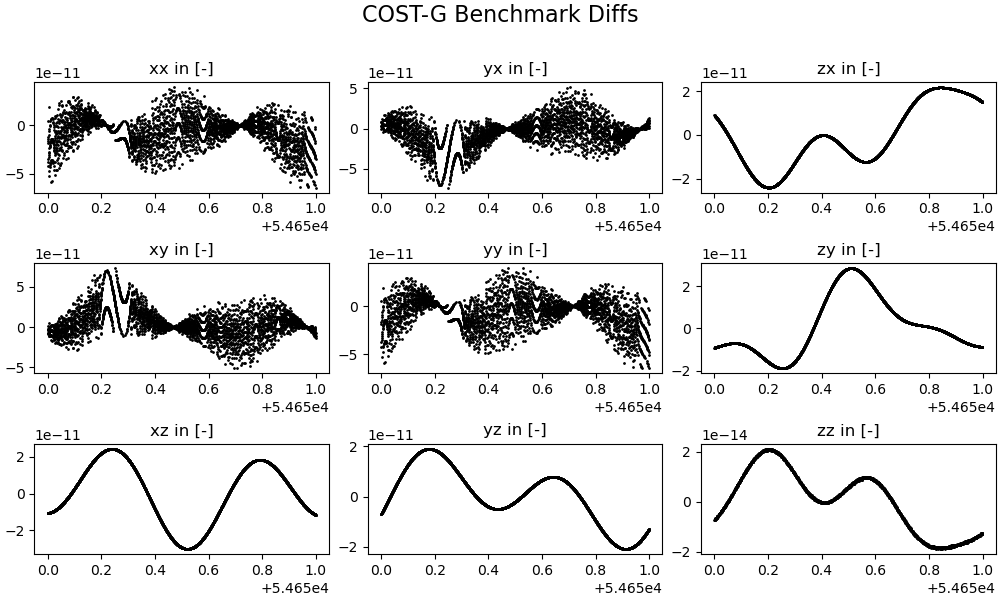
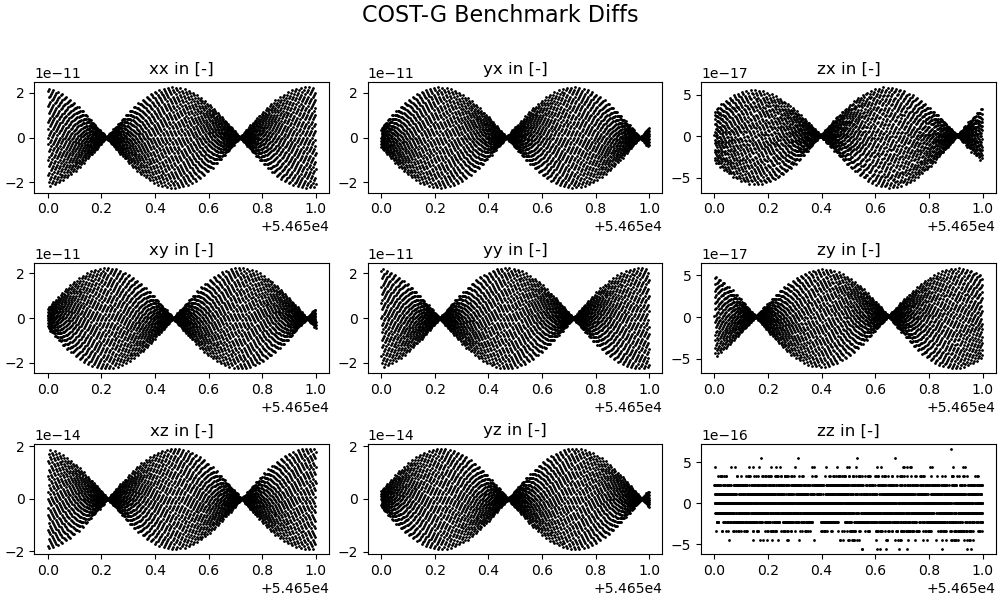
more eop

diff --git a/costg/check_itrf2icrf.cpp b/costg/check_itrf2icrf.cpp
@@ -2,14 +2,14 @@
 #include "geodesy/units.hpp"
 #include "orbit_integration.hpp"
 #include <charconv>
+#include <chrono>
 #include <cmath>
 #include <cstdio>
 #include <datetime/dtfund.hpp>
 #include <fstream>
 #include <vector>
-#include <chrono>
 #ifdef USE_SOFA
-#  include "sofa.h"
+#include "sofa.h"
 #endif
 
 using namespace std::chrono;
@@ -47,12 +47,12 @@ int main(int argc, char *argv[]) {
   }
 
   // parse position data
-  std::vector<Pos> icrfPos, itrfPos;
+  std::vector<Pos> itrfPos, icrfPos;
   if (map_position(argv[2], itrfPos))
     return 1;
   if (map_position(argv[3], icrfPos))
     return 1;
-  
+
   // fist date in file as datetime instance
   dso::datetime<dso::nanoseconds> d1(
       dso::modified_julian_day(static_cast<int>(itrfPos[0].mjd._big)),
@@ -63,7 +63,6 @@ int main(int argc, char *argv[]) {
   const int ref_mjd = d1.as_mjd();
   const int start = ref_mjd - 5;
   const int end = ref_mjd + 6;
-  // parse C04 EOPs and convert time-stamps to TT (not UTC)
   if (parse_iers_C04(argv[1], start, end, eop_lut)) {
     fprintf(stderr, "ERROR. Failed collecting EOP data\n");
     return 1;
@@ -71,7 +70,7 @@ int main(int argc, char *argv[]) {
 
   Eigen::Matrix<double, 3, 3> rc2i, rpom;
   double era, xlod;
-  
+
   std::vector<Pos>::const_iterator it = icrfPos.cbegin();
   // for every sattellite position ...
   auto clock_start = high_resolution_clock::now();
@@ -81,14 +80,15 @@ int main(int argc, char *argv[]) {
     assert(!dso::gcrs2itrs(gps2tai(tpos.mjd), eop_lut, rc2i, era, rpom, xlod));
 
     // transform itrf-to-icrf
-    [[maybe_unused]]const Eigen::Matrix<double, 3, 1> cpos =
+    [[maybe_unused]] const Eigen::Matrix<double, 3, 1> cpos =
         dso::rter2cel(tpos.xyz, rc2i, era, rpom);
 
 #ifdef USE_SOFA
     const dso::TwoPartDate ttjd = gps2tt(tpos.mjd).normalized();
     int iy, im, id;
     double fd, dat;
-    assert(!iauJd2cal(ttjd._big + dso::mjd0_jd, ttjd._small, &iy, &im, &id, &fd));
+    assert(
+        !iauJd2cal(ttjd._big + dso::mjd0_jd, ttjd._small, &iy, &im, &id, &fd));
     assert(!iauDat(iy, im, id, fd, &dat));
     dso::EopRecord myeop;
     if (eop_lut.interpolate(gps2tt(tpos.mjd), myeop, 3)) {
@@ -112,25 +112,35 @@ int main(int argc, char *argv[]) {
 
     // report differences
     auto cit = std::find_if(it, icrfPos.cend(), [&](const Pos &p) {
-      return std::abs(p.mjd.diff<dso::DateTimeDifferenceType::FractionalSeconds>(tpos.mjd)) < 1e-3;
+      return std::abs(
+                 p.mjd.diff<dso::DateTimeDifferenceType::FractionalSeconds>(
+                     tpos.mjd)) < 1e-6;
     });
-    
+
     if (cit != icrfPos.cend()) {
 #ifdef USE_SOFA
-      printf("%.12f %+.15f %+.15f %+.15f\n", tpos.mjd.mjd(), rp[0] - cit->xyz(0),
-             rp[1] - cit->xyz(1), rp[2] - cit->xyz(2));
+      printf("%.12f %+.15f %+.15f %+.15f\n", tpos.mjd.mjd(),
+             rp[0] - cit->xyz(0), rp[1] - cit->xyz(1), rp[2] - cit->xyz(2));
 #else
-      printf("%.12f %+.15f %+.15f %+.15f\n", tpos.mjd.mjd(), cpos(0) - cit->xyz(0),
-             cpos(1) - cit->xyz(1), cpos(2) - cit->xyz(2));
+      printf("%.12f %+.15f %+.15f %+.15f\n", tpos.mjd.mjd(),
+             cpos(0) - cit->xyz(0), cpos(1) - cit->xyz(1),
+             cpos(2) - cit->xyz(2));
 #endif
+      printf("[MINE]   %.12f %+.15f %+.15f %+.15f\n", tpos.mjd.mjd(), cpos(0),
+             cpos(1), cpos(2));
+      printf("[GROOPS] %.12f %+.15f %+.15f %+.15f\n", cit->mjd.mjd(),
+             cit->xyz(0), cit->xyz(1), cit->xyz(2));
+      printf("[DATA]   %.12f %+.15f %+.15f %+.15f\n", tpos.mjd.mjd(),
+             tpos.xyz(0), tpos.xyz(1), tpos.xyz(2));
       it = cit;
     }
   }
-  
+
   auto clock_stop = high_resolution_clock::now();
 
   auto duration = duration_cast<milliseconds>(clock_stop - clock_start);
-  std::cout << "Time taken by function: " << duration.count() << " milliseconds\n";
+  std::cout << "Time taken by function: " << duration.count()
+            << " milliseconds\n";
 
   return 0;
 }
@@ -151,7 +161,7 @@ int map_position(const char *fn, std::vector<Pos> &poss) {
   }
 
   // first five lines are GROOPS related
-  for (int i = 0; i < 7; i++)
+  for (int i = 0; i < 6; i++)
     fin.getline(line, MAX_CHARS);
 
   // read data
@@ -175,8 +185,8 @@ int map_position(const char *fn, std::vector<Pos> &poss) {
     // remember, COLUMN-WISE order!
     double it;
     const double ft = std::modf(_data[0], &it);
-    poss.push_back(
-        {dso::TwoPartDate(it,ft), Eigen::Map<Eigen::Matrix<double, 3, 1>>(_data + 1)});
+    poss.push_back({dso::TwoPartDate(it, ft),
+                    Eigen::Map<Eigen::Matrix<double, 3, 1>>(_data + 1)});
   }
 
   if (!fin.good() && fin.eof())

diff --git a/src/itrs2gcrs.cpp b/src/itrs2gcrs.cpp
@@ -77,11 +77,14 @@ int dso::gcrs2itrs(const dso::TwoPartDate &mjd_tai,
                    Eigen::Matrix<double, 3, 3> &rpom, double &xlod) noexcept {
 
   // TAI to TT
-  dso::TwoPartDate mjd_tt(mjd_tai._big, mjd_tai._small + TAI2TTFDAYS);
+  const dso::TwoPartDate mjd_tt(mjd_tai._big, mjd_tai._small + TAI2TTFDAYS);
 
-  // interpolate/correct EOP values using TT
+  // TAI to UTC
+  const dso::TwoPartDate mjd_utc = mjd_tai.tai2utc();
+
+  // interpolate/correct EOP values using UTC
   dso::EopRecord eops;
-  if (int error; (error = eop_table.interpolate(mjd_tt, eops))) {
+  if (int error; (error = eop_table.interpolate(mjd_utc, eops))) {
     fprintf(stderr, "ERROR. Failed getting EOP values (status: %d)\n", error);
     return error;
   }
@@ -112,8 +115,8 @@ int dso::gcrs2itrs(const dso::TwoPartDate &mjd_tai,
   rc2i = iers2010::sofa::c2ixys_e(X, Y, s);
 
   // call ERA00 to get the ERA rotation angle (need UT1 datetime)
-  dso::TwoPartDate ut1 = mjd_tai.tai2utc(); // UTC date
-  ut1._small += eops.dut / 86400e0;             // add UT1-UTC, interpolated
+  dso::TwoPartDate ut1 = mjd_utc;
+  ut1._small += eops.dut / 86400e0; // add UT1-UTC, interpolated
   const auto sofa_ut1jd = ut1.normalized().jd_sofa();
   era = iers2010::sofa::era00(sofa_ut1jd._big, sofa_ut1jd._small);
 

diff --git a/costg/check_01rot.cpp b/costg/check_01rot.cpp
@@ -56,14 +56,11 @@ int main(int argc, char *argv[]) {
   const int ref_mjd = d1.as_mjd();
   const int start = ref_mjd - 5;
   const int end = ref_mjd + 6;
-  // parse C04 EOPs and convert time-stamps to TT (not UTC)
+  // parse C04 EOPs
   if (parse_iers_C04(argv[1], start, end, eop_lut)) {
     fprintf(stderr, "ERROR. Failed collecting EOP data\n");
     return 1;
   }
-
-  // regularize ERP (DUT and LOD)
-  // eop_lut.regularize();
 
   // ok, now for every MJD in the reference file
   for (const Rotary &rot : refrots) {
@@ -107,7 +104,7 @@ int map_input(const char *fn, std::vector<Rotary> &rots) {
   }
 
   // first five lines are GROOPS related
-  for (int i=0; i<5;i++) fin.getline(line, MAX_CHARS);
+  for (int i=0; i<6;i++) fin.getline(line, MAX_CHARS);
 
   // read data
   double _data[10];

diff --git a/costg/readme.md b/costg/readme.md
@@ -8,8 +8,8 @@ For information on the benchmark test, see the paper
 ### 01earthRotation_interpolatedEOP
 ```
 $>costg/check-01eop.out \
- costG/eopc04_14_IAU2000.62-now \
- costG/01earthRotation_interpolatedEOP.txt \
+ costG/models/eopc04_14_IAU2000.62-now \
+ costG/satellite/01earthRotation_interpolatedEOP.txt \
  | costg/plot_costg_01earthRotation_interpolatedEOP.py
 ```
 ![alt text](figures/01earthRotation_interpolatedEOP.png)
@@ -17,8 +17,8 @@ $>costg/check-01eop.out \
 ### 01earthRotation_rotaryMatrix
 ```
   $>costg/check-01rot.out \
-  data/EOP_14_C04_IAU2000A_one_file_1962-now.txt \
-  costG/01earthRotation_rotaryMatrix.txt \
+  costG/models/eopc04_14_IAU2000.62-now \
+  costG/satellite/01earthRotation_rotaryMatrix.txt \
   | costg/plot_costg_01earthRotation_rotarymatrix.py
 ```
 ![alt text](figures/01earthRotation_rotaryMatrix.png)
